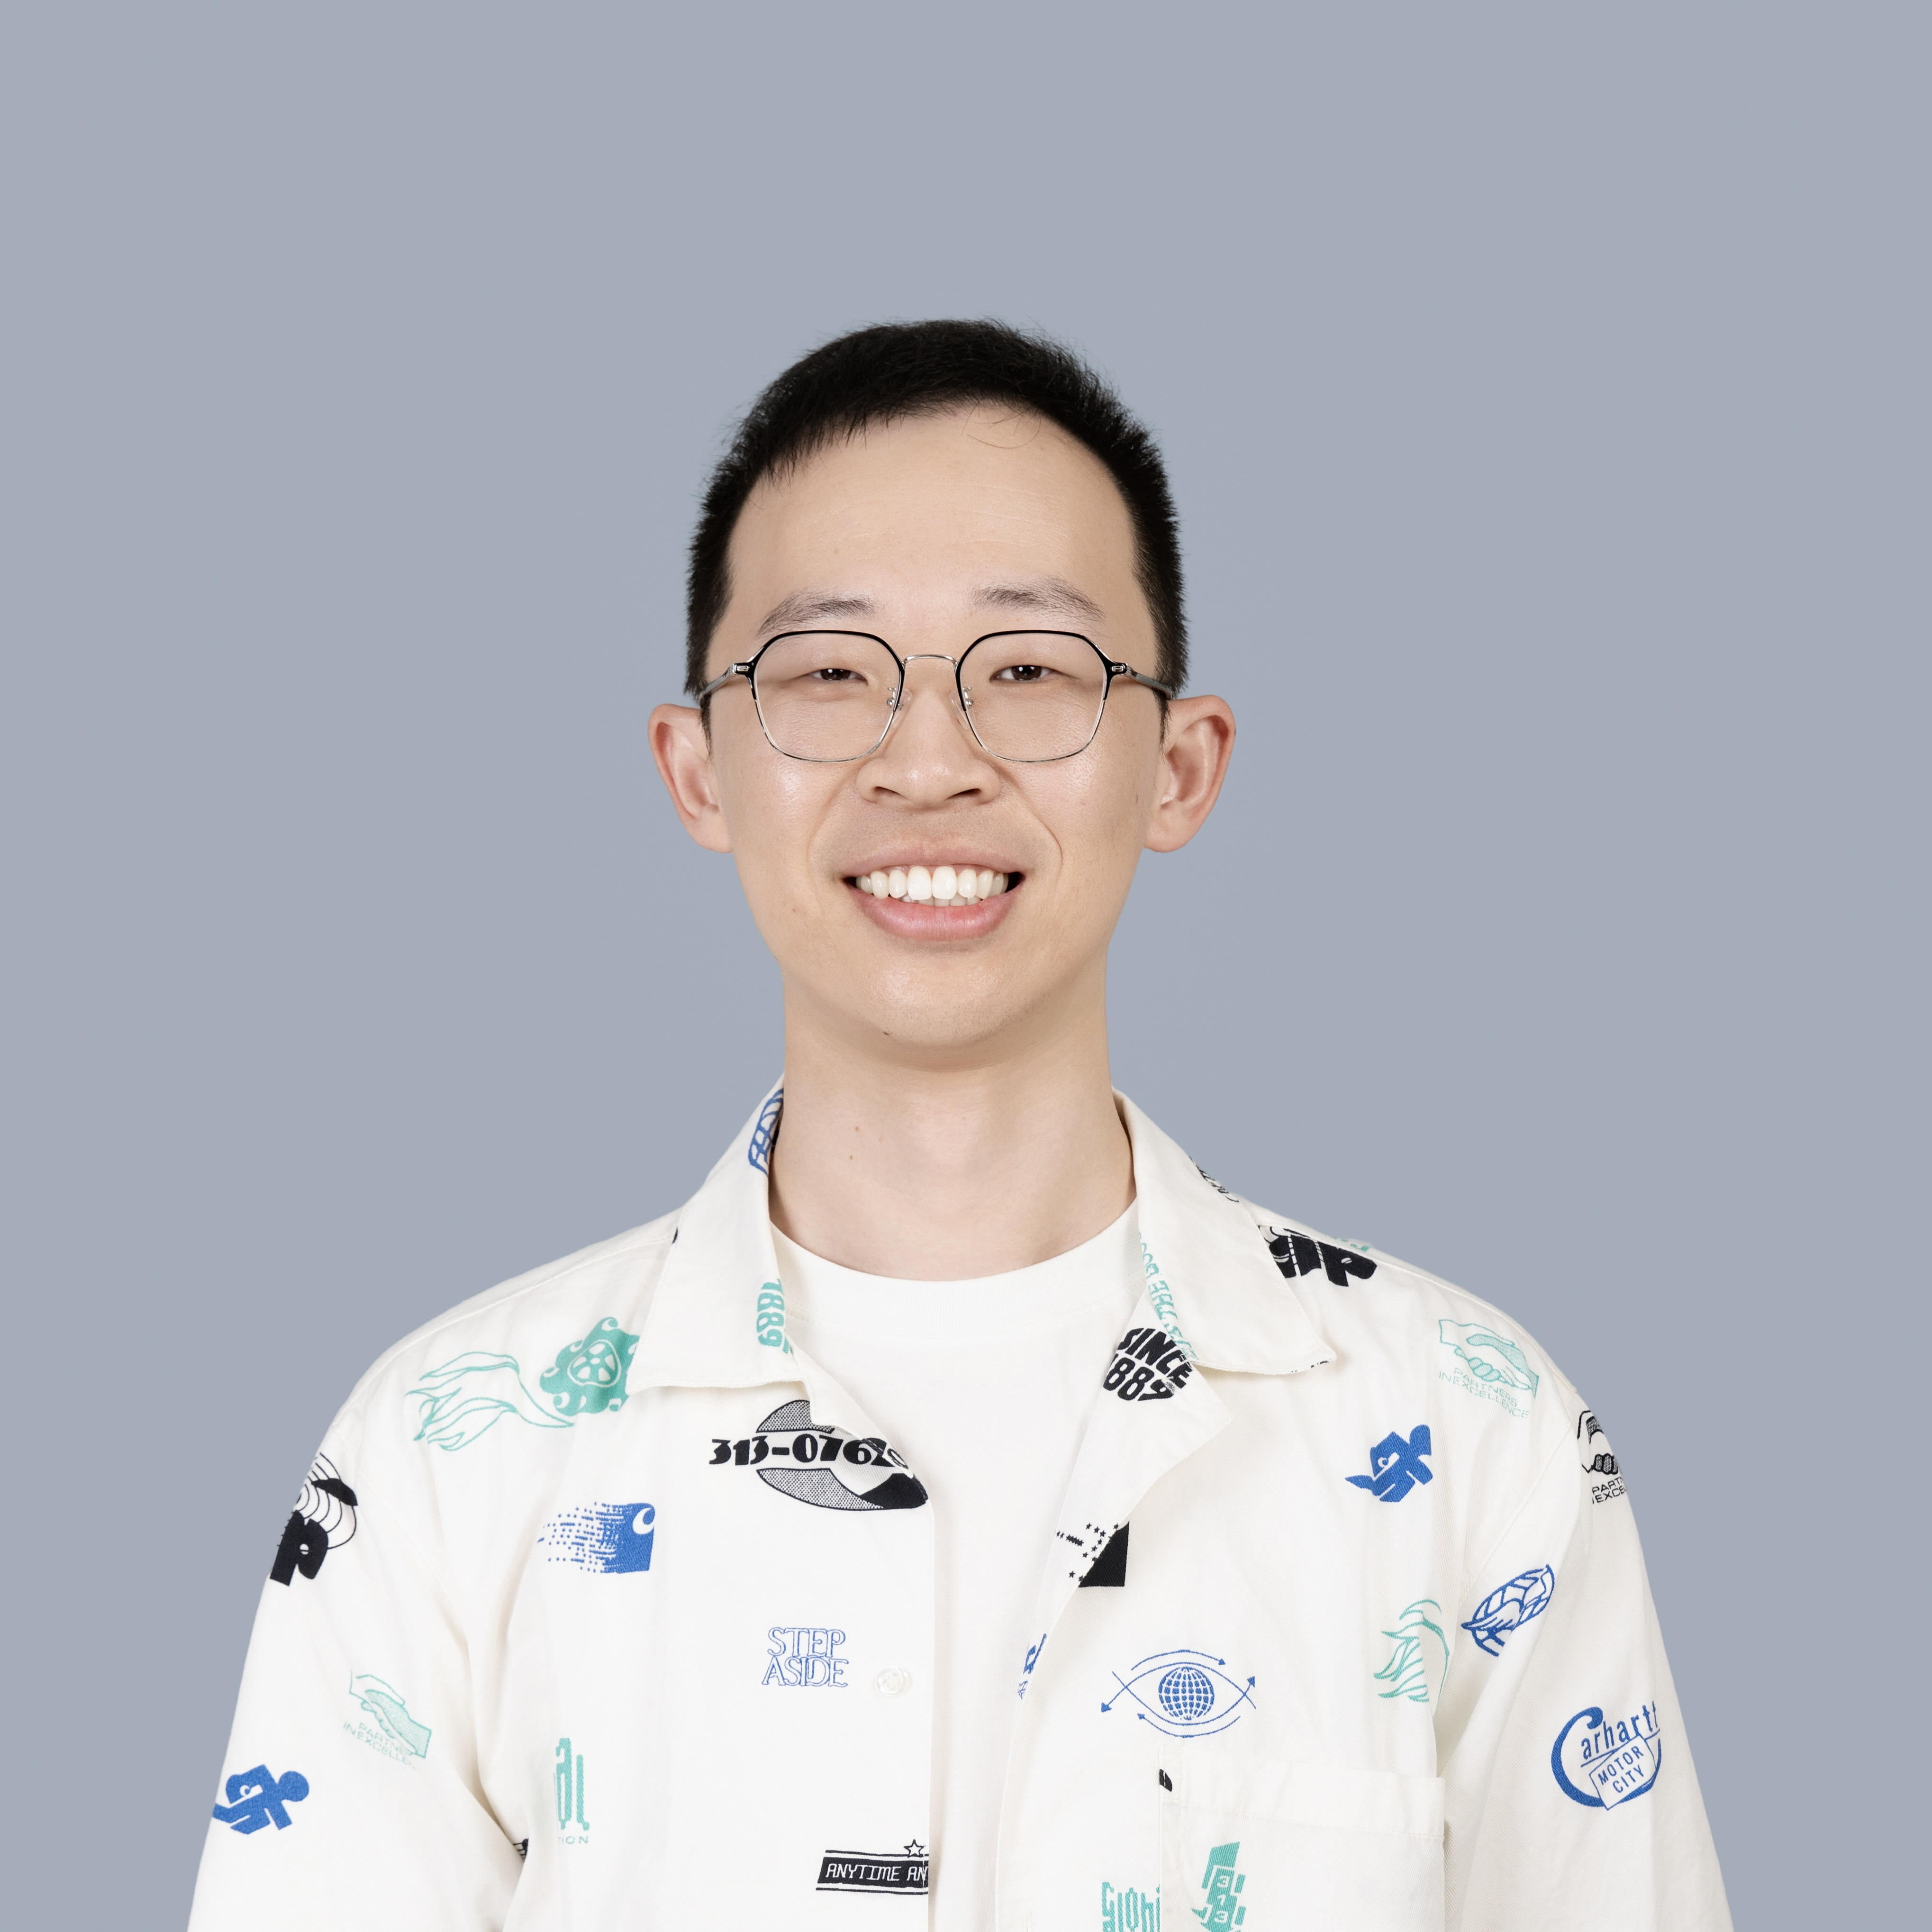
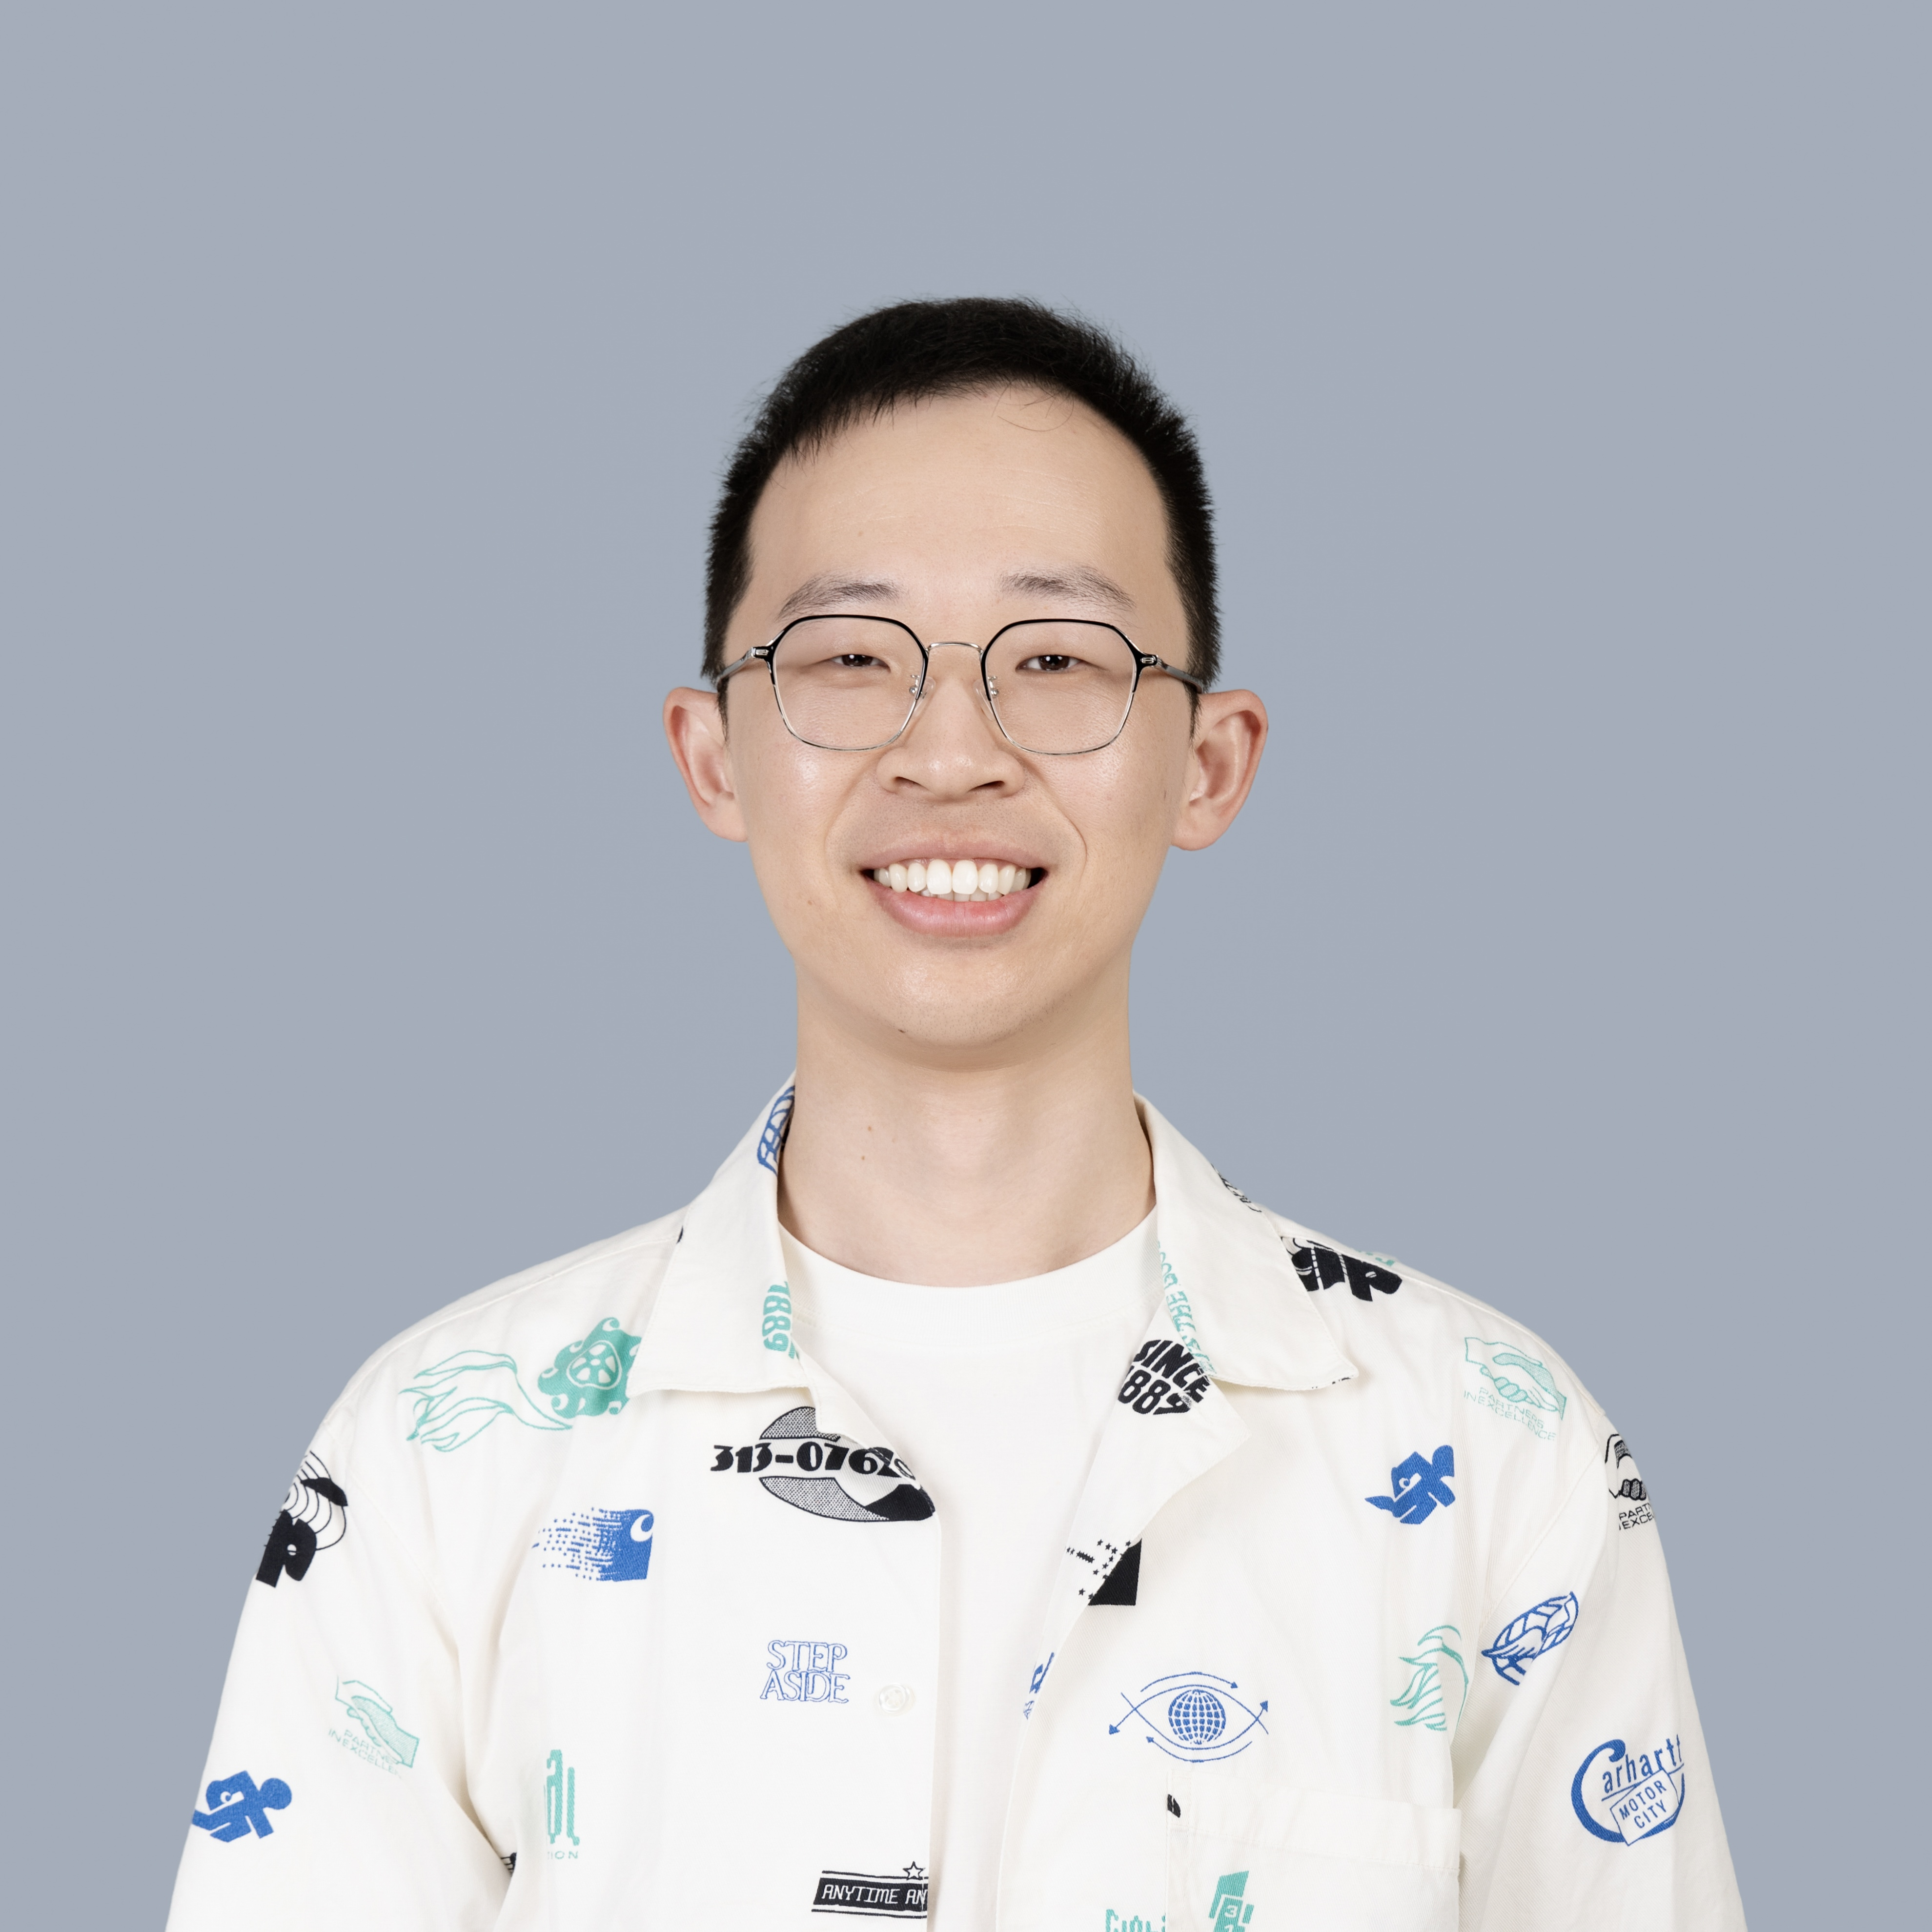
Deploy by source shanchencrypto/personalsite@77137450e50701ba927a68a4b9f3dc024135ae5e

diff --git a/index.html b/index.html
@@ -1,6 +1,6 @@
 <!DOCTYPE html>
 <!-- This site was created with Hugo Blox. https://hugoblox.com -->
-<!-- Last Published: April 21, 2026 --><html lang="en-us" >
+<!-- Last Published: May 15, 2026 --><html lang="en-us" >
 
 
 <head>
@@ -796,7 +796,7 @@
       
       <img class="avatar avatar-circle"
            width="270" height="270"
-           src="/authors/admin/avatar_hu1e1eb28d69d0216751116ad7e5b60486_1908557_270x270_fill_q75_lanczos_center.jpg" alt="Shan Chen">
+           src="/authors/admin/avatar_hufde2a1de19623f2d74fccd4f5941133a_1572274_270x270_fill_q75_lanczos_center.jpg" alt="Shan Chen">
       
 
       <div class="portrait-title">
@@ -1131,7 +1131,7 @@ If your primary goal is to earn a graduate degree, please consider other fields,
   </span>
   (2026).
   <a href="/publication/wifi/">Provable Security and Privacy Analysis of WPA3&#39;s SAE and SAE-PK Protocols</a>.
-  In <em>EUROCRYPT 2026</em>.
+  In <em>EUROCRYPT 2026</em>.<br><strong>Best Paper Award</strong>.
   
   <p>
 

diff --git a/post/getting-started/index.html b/post/getting-started/index.html
@@ -1,6 +1,6 @@
 <!DOCTYPE html>
 <!-- This site was created with Hugo Blox. https://hugoblox.com -->
-<!-- Last Published: April 21, 2026 --><html lang="en-us" >
+<!-- Last Published: May 15, 2026 --><html lang="en-us" >
 
 
 <head>
@@ -1041,7 +1041,7 @@
   <div class="media author-card content-widget-hr">
     
       
-      <a href="https://shanchencrypto.github.io/"><img class="avatar mr-3 avatar-circle" src="/authors/admin/avatar_hu1e1eb28d69d0216751116ad7e5b60486_1908557_270x270_fill_q75_lanczos_center.jpg" alt="Shan Chen"></a>
+      <a href="https://shanchencrypto.github.io/"><img class="avatar mr-3 avatar-circle" src="/authors/admin/avatar_hufde2a1de19623f2d74fccd4f5941133a_1572274_270x270_fill_q75_lanczos_center.jpg" alt="Shan Chen"></a>
     
 
     <div class="media-body">

diff --git a/project/example/index.html b/project/example/index.html
@@ -1,6 +1,6 @@
 <!DOCTYPE html>
 <!-- This site was created with Hugo Blox. https://hugoblox.com -->
-<!-- Last Published: April 21, 2026 --><html lang="en-us" >
+<!-- Last Published: May 15, 2026 --><html lang="en-us" >
 
 
 <head>
@@ -996,7 +996,7 @@
   <div class="media author-card content-widget-hr">
     
       
-      <a href="https://shanchencrypto.github.io/"><img class="avatar mr-3 avatar-circle" src="/authors/admin/avatar_hu1e1eb28d69d0216751116ad7e5b60486_1908557_270x270_fill_q75_lanczos_center.jpg" alt="Shan Chen"></a>
+      <a href="https://shanchencrypto.github.io/"><img class="avatar mr-3 avatar-circle" src="/authors/admin/avatar_hufde2a1de19623f2d74fccd4f5941133a_1572274_270x270_fill_q75_lanczos_center.jpg" alt="Shan Chen"></a>
     
 
     <div class="media-body">

diff --git a/publication/causality/index.html b/publication/causality/index.html
@@ -1,6 +1,6 @@
 <!DOCTYPE html>
 <!-- This site was created with Hugo Blox. https://hugoblox.com -->
-<!-- Last Published: April 21, 2026 --><html lang="en-us" >
+<!-- Last Published: May 15, 2026 --><html lang="en-us" >
 
 
 <head>
@@ -1019,7 +1019,7 @@
   <div class="media author-card content-widget-hr">
     
       
-      <a href="https://shanchencrypto.github.io/"><img class="avatar mr-3 avatar-circle" src="/authors/admin/avatar_hu1e1eb28d69d0216751116ad7e5b60486_1908557_270x270_fill_q75_lanczos_center.jpg" alt="Shan Chen"></a>
+      <a href="https://shanchencrypto.github.io/"><img class="avatar mr-3 avatar-circle" src="/authors/admin/avatar_hufde2a1de19623f2d74fccd4f5941133a_1572274_270x270_fill_q75_lanczos_center.jpg" alt="Shan Chen"></a>
     
 
     <div class="media-body">

diff --git a/publication/comae/index.html b/publication/comae/index.html
@@ -1,6 +1,6 @@
 <!DOCTYPE html>
 <!-- This site was created with Hugo Blox. https://hugoblox.com -->
-<!-- Last Published: April 21, 2026 --><html lang="en-us" >
+<!-- Last Published: May 15, 2026 --><html lang="en-us" >
 
 
 <head>
@@ -1026,7 +1026,7 @@
   <div class="media author-card content-widget-hr">
     
       
-      <a href="https://shanchencrypto.github.io/"><img class="avatar mr-3 avatar-circle" src="/authors/admin/avatar_hu1e1eb28d69d0216751116ad7e5b60486_1908557_270x270_fill_q75_lanczos_center.jpg" alt="Shan Chen"></a>
+      <a href="https://shanchencrypto.github.io/"><img class="avatar mr-3 avatar-circle" src="/authors/admin/avatar_hufde2a1de19623f2d74fccd4f5941133a_1572274_270x270_fill_q75_lanczos_center.jpg" alt="Shan Chen"></a>
     
 
     <div class="media-body">

diff --git a/publication/fido2/index.html b/publication/fido2/index.html
@@ -1,6 +1,6 @@
 <!DOCTYPE html>
 <!-- This site was created with Hugo Blox. https://hugoblox.com -->
-<!-- Last Published: April 21, 2026 --><html lang="en-us" >
+<!-- Last Published: May 15, 2026 --><html lang="en-us" >
 
 
 <head>
@@ -1032,7 +1032,7 @@
   <div class="media author-card content-widget-hr">
     
       
-      <a href="https://shanchencrypto.github.io/"><img class="avatar mr-3 avatar-circle" src="/authors/admin/avatar_hu1e1eb28d69d0216751116ad7e5b60486_1908557_270x270_fill_q75_lanczos_center.jpg" alt="Shan Chen"></a>
+      <a href="https://shanchencrypto.github.io/"><img class="avatar mr-3 avatar-circle" src="/authors/admin/avatar_hufde2a1de19623f2d74fccd4f5941133a_1572274_270x270_fill_q75_lanczos_center.jpg" alt="Shan Chen"></a>
     
 
     <div class="media-body">

diff --git a/publication/fido2plus/index.html b/publication/fido2plus/index.html
@@ -1,6 +1,6 @@
 <!DOCTYPE html>
 <!-- This site was created with Hugo Blox. https://hugoblox.com -->
-<!-- Last Published: April 21, 2026 --><html lang="en-us" >
+<!-- Last Published: May 15, 2026 --><html lang="en-us" >
 
 
 <head>
@@ -1030,7 +1030,7 @@
   <div class="media author-card content-widget-hr">
     
       
-      <a href="https://shanchencrypto.github.io/"><img class="avatar mr-3 avatar-circle" src="/authors/admin/avatar_hu1e1eb28d69d0216751116ad7e5b60486_1908557_270x270_fill_q75_lanczos_center.jpg" alt="Shan Chen"></a>
+      <a href="https://shanchencrypto.github.io/"><img class="avatar mr-3 avatar-circle" src="/authors/admin/avatar_hufde2a1de19623f2d74fccd4f5941133a_1572274_270x270_fill_q75_lanczos_center.jpg" alt="Shan Chen"></a>
     
 
     <div class="media-body">

diff --git a/publication/hake/index.html b/publication/hake/index.html
@@ -1,6 +1,6 @@
 <!DOCTYPE html>
 <!-- This site was created with Hugo Blox. https://hugoblox.com -->
-<!-- Last Published: April 21, 2026 --><html lang="en-us" >
+<!-- Last Published: May 15, 2026 --><html lang="en-us" >
 
 
 <head>
@@ -1023,7 +1023,7 @@
   <div class="media author-card content-widget-hr">
     
       
-      <a href="https://shanchencrypto.github.io/"><img class="avatar mr-3 avatar-circle" src="/authors/admin/avatar_hu1e1eb28d69d0216751116ad7e5b60486_1908557_270x270_fill_q75_lanczos_center.jpg" alt="Shan Chen"></a>
+      <a href="https://shanchencrypto.github.io/"><img class="avatar mr-3 avatar-circle" src="/authors/admin/avatar_hufde2a1de19623f2d74fccd4f5941133a_1572274_270x270_fill_q75_lanczos_center.jpg" alt="Shan Chen"></a>
     
 
     <div class="media-body">

diff --git a/publication/index.html b/publication/index.html
@@ -1,6 +1,6 @@
 <!DOCTYPE html>
 <!-- This site was created with Hugo Blox. https://hugoblox.com -->
-<!-- Last Published: April 21, 2026 --><html lang="en-us" >
+<!-- Last Published: May 15, 2026 --><html lang="en-us" >
 
 
 <head>
@@ -815,7 +815,7 @@
   </span>
   (2026).
   <a href="/publication/wifi/">Provable Security and Privacy Analysis of WPA3&#39;s SAE and SAE-PK Protocols</a>.
-  In <em>EUROCRYPT 2026</em>.
+  In <em>EUROCRYPT 2026</em>.<br><strong>Best Paper Award</strong>.
   
   <p>
 

diff --git a/publication/keyalt/index.html b/publication/keyalt/index.html
@@ -1,6 +1,6 @@
 <!DOCTYPE html>
 <!-- This site was created with Hugo Blox. https://hugoblox.com -->
-<!-- Last Published: April 21, 2026 --><html lang="en-us" >
+<!-- Last Published: May 15, 2026 --><html lang="en-us" >
 
 
 <head>
@@ -1017,7 +1017,7 @@
   <div class="media author-card content-widget-hr">
     
       
-      <a href="https://shanchencrypto.github.io/"><img class="avatar mr-3 avatar-circle" src="/authors/admin/avatar_hu1e1eb28d69d0216751116ad7e5b60486_1908557_270x270_fill_q75_lanczos_center.jpg" alt="Shan Chen"></a>
+      <a href="https://shanchencrypto.github.io/"><img class="avatar mr-3 avatar-circle" src="/authors/admin/avatar_hufde2a1de19623f2d74fccd4f5941133a_1572274_270x270_fill_q75_lanczos_center.jpg" alt="Shan Chen"></a>
     
 
     <div class="media-body">

diff --git a/publication/minem/index.html b/publication/minem/index.html
@@ -1,6 +1,6 @@
 <!DOCTYPE html>
 <!-- This site was created with Hugo Blox. https://hugoblox.com -->
-<!-- Last Published: April 21, 2026 --><html lang="en-us" >
+<!-- Last Published: May 15, 2026 --><html lang="en-us" >
 
 
 <head>
@@ -1018,7 +1018,7 @@
   <div class="media author-card content-widget-hr">
     
       
-      <a href="https://shanchencrypto.github.io/"><img class="avatar mr-3 avatar-circle" src="/authors/admin/avatar_hu1e1eb28d69d0216751116ad7e5b60486_1908557_270x270_fill_q75_lanczos_center.jpg" alt="Shan Chen"></a>
+      <a href="https://shanchencrypto.github.io/"><img class="avatar mr-3 avatar-circle" src="/authors/admin/avatar_hufde2a1de19623f2d74fccd4f5941133a_1572274_270x270_fill_q75_lanczos_center.jpg" alt="Shan Chen"></a>
     
 
     <div class="media-body">

diff --git a/publication/minem_joc/index.html b/publication/minem_joc/index.html
@@ -1,6 +1,6 @@
 <!DOCTYPE html>
 <!-- This site was created with Hugo Blox. https://hugoblox.com -->
-<!-- Last Published: April 21, 2026 --><html lang="en-us" >
+<!-- Last Published: May 15, 2026 --><html lang="en-us" >
 
 
 <head>
@@ -1018,7 +1018,7 @@
   <div class="media author-card content-widget-hr">
     
       
-      <a href="https://shanchencrypto.github.io/"><img class="avatar mr-3 avatar-circle" src="/authors/admin/avatar_hu1e1eb28d69d0216751116ad7e5b60486_1908557_270x270_fill_q75_lanczos_center.jpg" alt="Shan Chen"></a>
+      <a href="https://shanchencrypto.github.io/"><img class="avatar mr-3 avatar-circle" src="/authors/admin/avatar_hufde2a1de19623f2d74fccd4f5941133a_1572274_270x270_fill_q75_lanczos_center.jpg" alt="Shan Chen"></a>
     
 
     <div class="media-body">